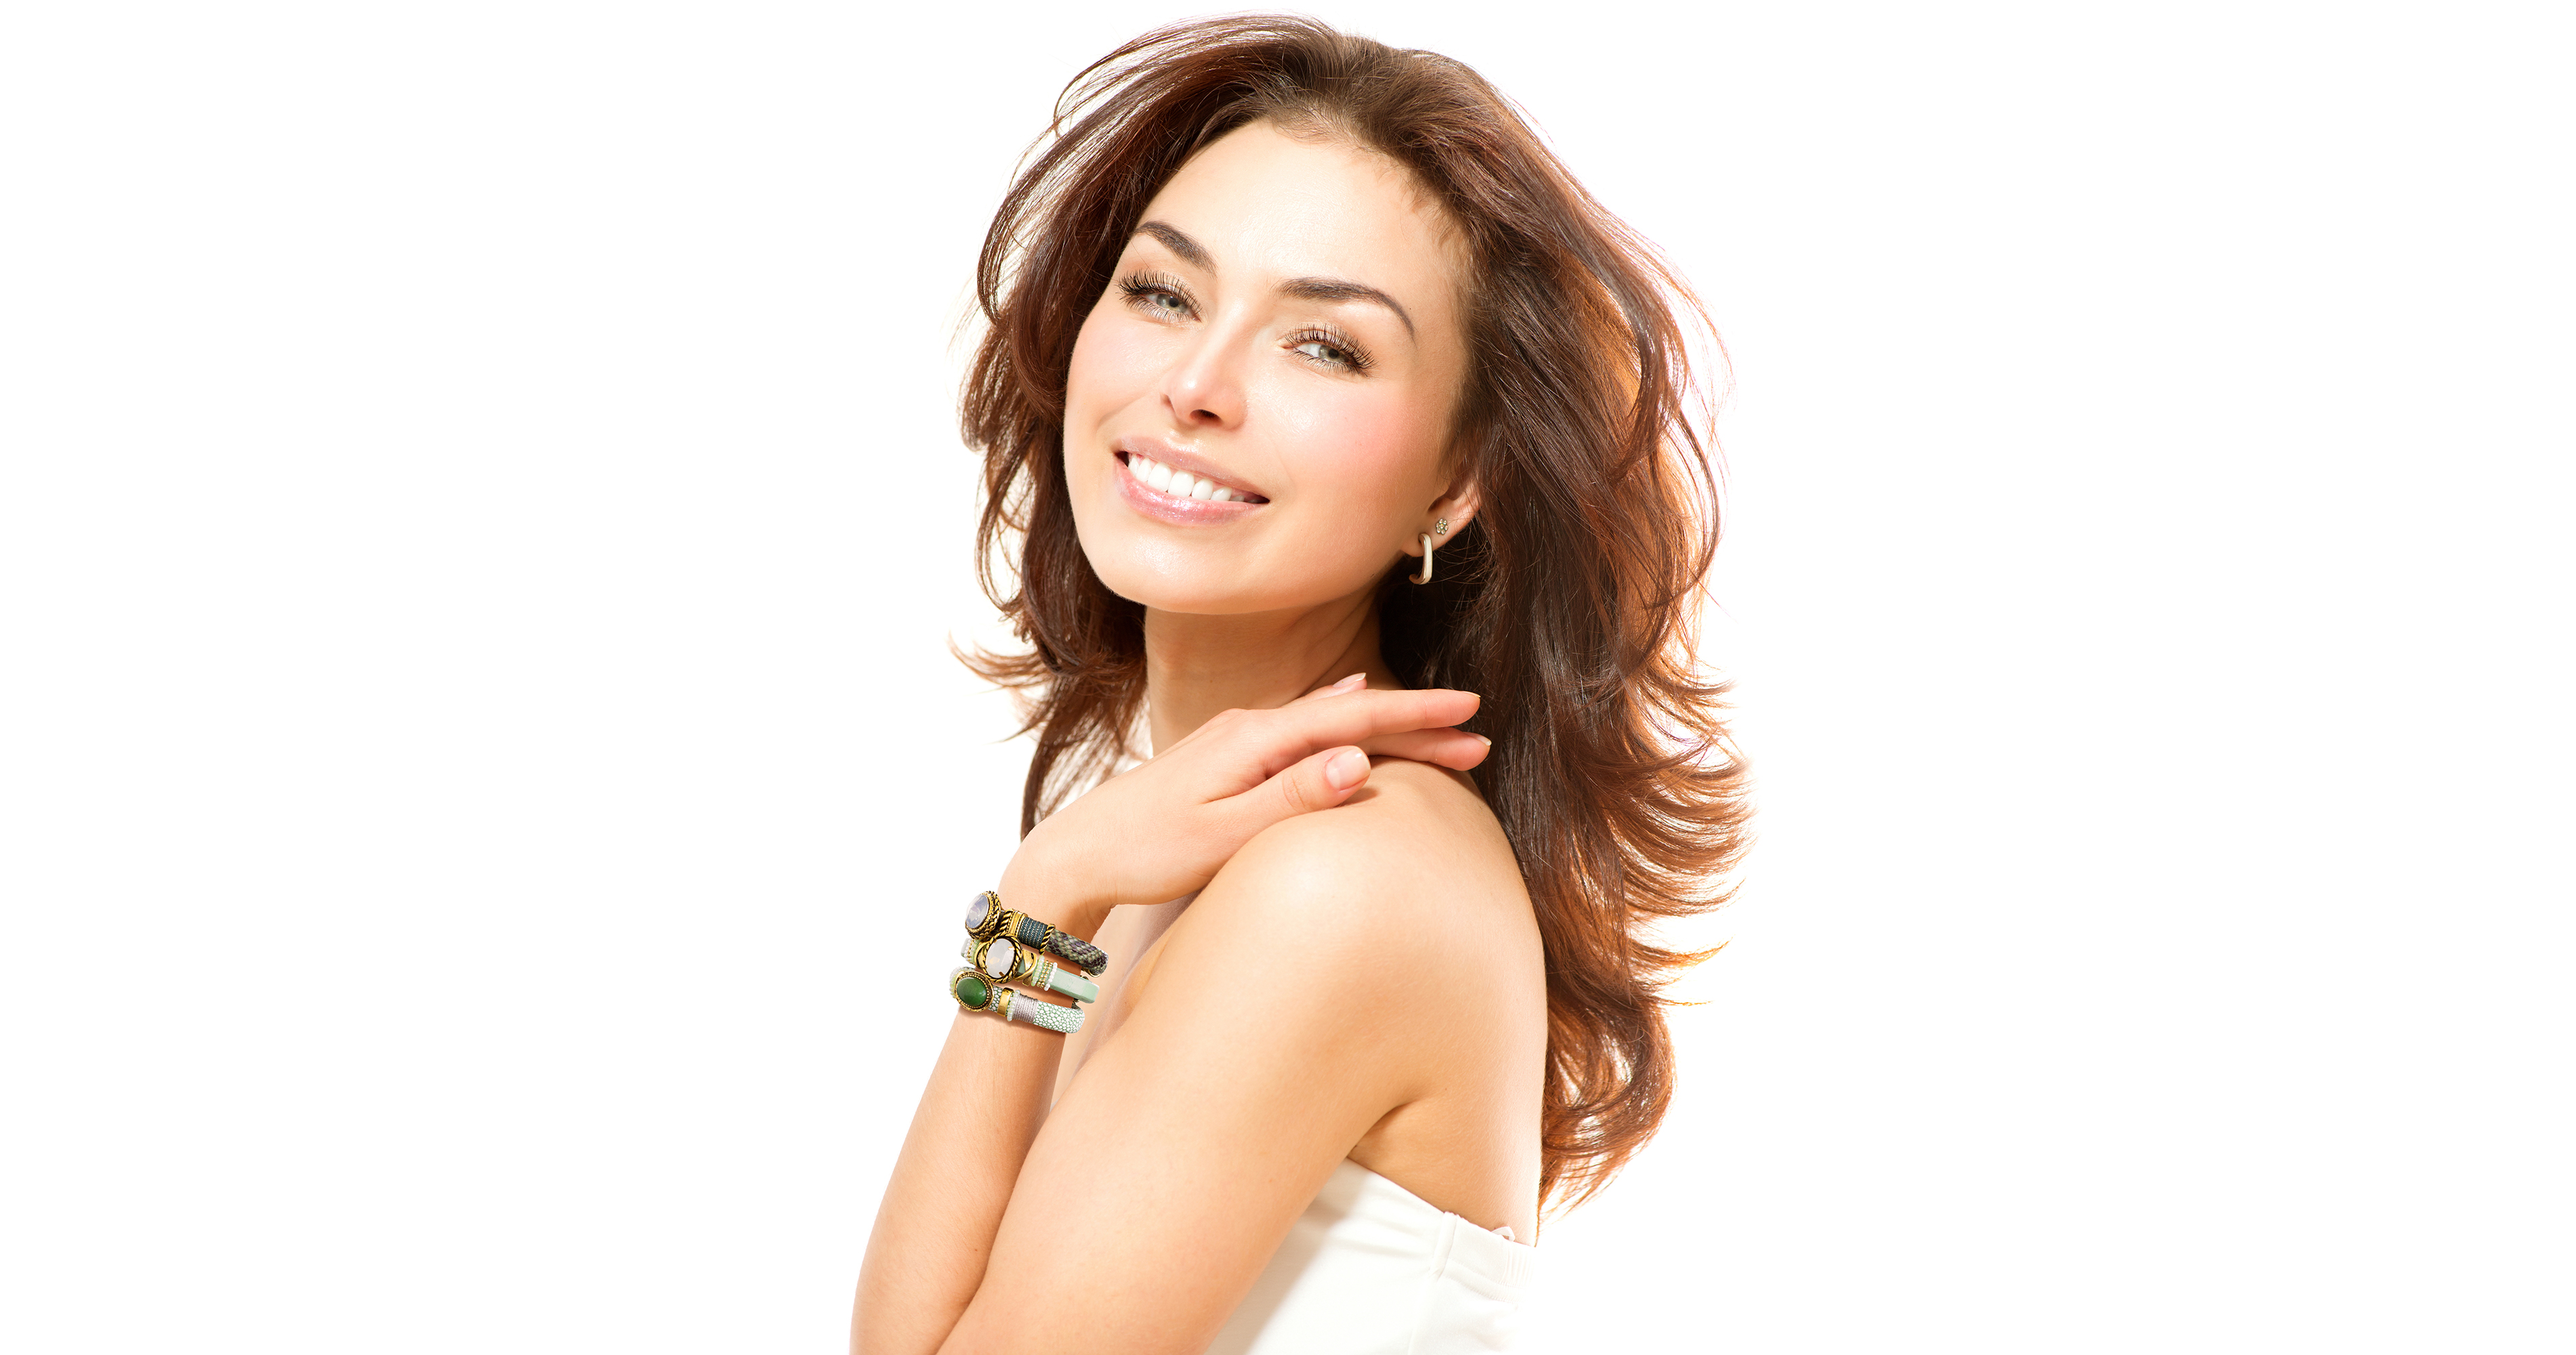
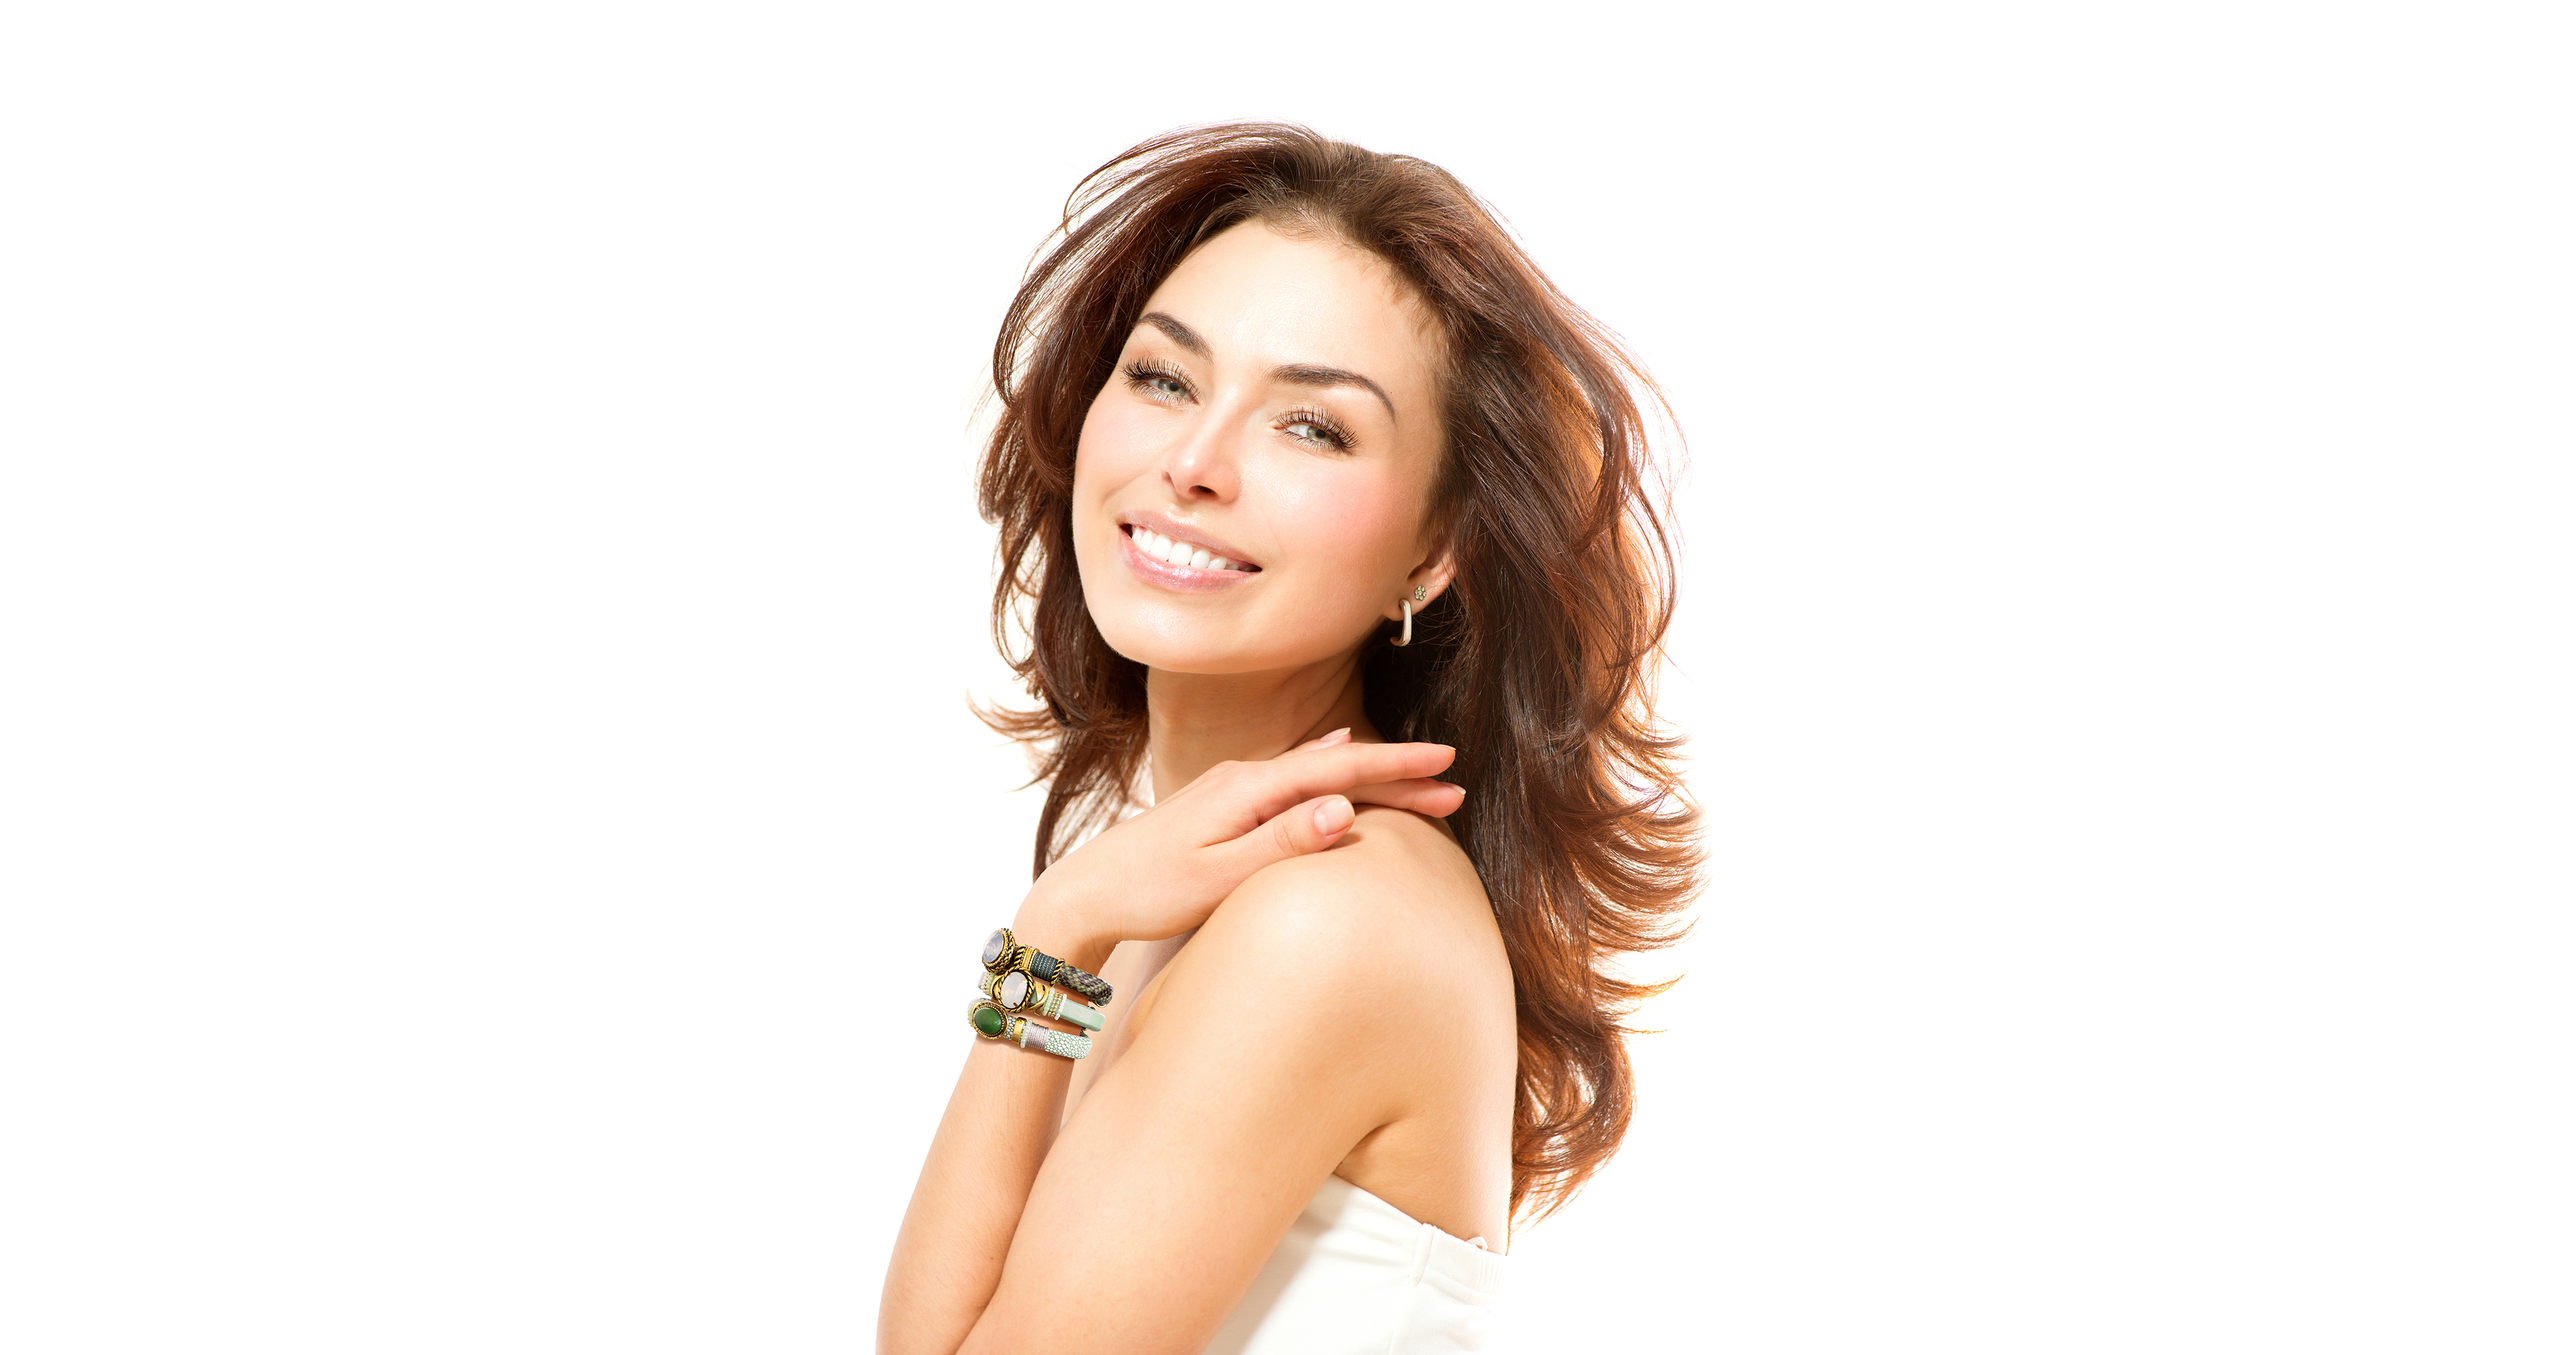
end of day stuff

Changed region(s): [[0.3105, 0.0, 0.6832, 1.0], [0.4658, 0.961, 0.4968, 1.0]]

diff --git a/index.html b/index.html
@@ -86,8 +86,8 @@
 
 							<!-- LAYER NR. 1 -->
 							<div class="tp-caption tp-resizeme"
-								data-x="['center','center','center','center']" data-hoffset="['-458','-395','-257','-410']"
-								data-y="['middle','middle','bottom','middle']" data-voffset="['90','55','123','50']"
+								data-x="['center','center','center','center']" data-hoffset="['-458','-397','-257','-410']"
+								data-y="['middle','middle','bottom','middle']" data-voffset="['90','235','123','50']"
 								data-width="none"
 								data-height="none"
 								data-whitespace="nowrap"
@@ -106,7 +106,7 @@
 							<!-- LAYER NR. 2 -->
 							<div class="tp-caption tp-resizeme"
 								data-x="['center','center','center','center']" data-hoffset="['-410','-349','-209','-209']"
-								data-y="['middle','middle','bottom','middle']" data-voffset="['190','150','-40','150']"
+								data-y="['middle','middle','bottom','middle']" data-voffset="['190','330','-40','150']"
 								data-fontsize="['17','17','17','17']"
 								data-lineheight="['22','22','22','22']"
 								data-width="219"
@@ -132,7 +132,7 @@
 							<!-- LAYER NR. 3 -->
 							<div class="tp-caption   tp-resizeme"
 								data-x="['center','center','center','center']" data-hoffset="['-413','-353','-211','-330']"
-								data-y="['middle','middle','bottom','middle']" data-voffset="['185','142','40','250']"
+								data-y="['middle','middle','bottom','bottom']" data-voffset="['185','321','40','250']"
 								data-width="none"
 								data-height="none"
 								data-whitespace="nowrap"
@@ -158,8 +158,8 @@
 
 							<!-- LAYER NR. 1 -->
 							<div class="tp-caption tp-resizeme"
-								data-x="['center','center','center','center']" data-hoffset="['-402','0','0','0']"
-								data-y="['middle','middle','middle','middle']" data-voffset="['90','0','0','0']"
+								data-x="['center','left','left','left']" data-hoffset="['-402','60','60','0']"
+								data-y="['middle','bottom','bottom','bottom']" data-voffset="['90','30','30','30']"
 								data-width="none"
 								data-height="none"
 								data-whitespace="nowrap"
@@ -172,15 +172,15 @@
 								data-responsive_offset="on"
 								style="z-index: 5;"> <img src="one-page/images/rglblogo.png">
 							</div>
-70
+
 							<!-- LAYER NR. 2 -->
 							<div class="tp-caption  tp-resizeme"
-								data-x="['center','center','center','center']" data-hoffset="['-345','-349','-309','-209']"
-								data-y="['middle','middle','middle','middle']" data-voffset="['200','150','150','150']"
+								data-x="['center','left','left','left']" data-hoffset="['-395','70','145','145']"
+								data-y="['middle','bottom','bottom','bottom']" data-voffset="['165','-55','65','55']"
 								data-fontsize="['20','17','17','17']"
-								data-lineheight="['28','30','30','30']"
-								data-width="219"
-								data-height="161"
+								data-lineheight="['22','22','22','22']"
+								data-width="119"
+								data-height="91"
 								data-whitespace="normal"
 								data-transform_idle="o:1;"
 								data-transform_in="x:[-100%];z:0;rX:0deg;rY:0;rZ:0;sX:1;sY:1;skX:0;skY:0;s:1500;e:Power3.easeInOut;"
@@ -190,10 +190,10 @@
 								data-start="500"
 								data-splitin="none"
 								data-splitout="none"
-								data-basealign="slide"
+
 								data-responsive_offset="on"
 
-								style="z-index: 6; min-width: 219px; max-width: 219px; max-width: 161px; max-width: 161px; white-space: normal; font-family: Bodoni-Sans;">Magentic Focal<br/>
+								style="z-index: 6; min-width: 219px; max-width: 219px; min-height: 161px; max-height: 161px; white-space: normal; font-family: Bodoni-Sans;">Magentic Focal<br/>
 								Bracelet 3<br/>
 								$59.99<br/>
 							</div>
@@ -209,7 +209,7 @@
 							<!-- LAYER NR. 1 -->
 							<div class="tp-caption tp-resizeme"
 								data-x="['left','left','left','left']" data-hoffset="['90','0','0','0']"
-								data-y="['middle','middle','middle','middle']" data-voffset="['90','0','0','0']"
+								data-y="['middle','bottom','bottom','bottom']" data-voffset="['90','90','00','00']"
 								data-width="none"
 								data-height="none"
 								data-whitespace="nowrap"
@@ -219,18 +219,21 @@
 								data-transform_out="opacity:0;s:1000;s:1000;"
 								data-mask_in="x:0px;y:0px;s:inherit;e:inherit;"
 								data-start="500"
+								data-splitin="none"
+								data-splitout="none"
+
 								data-responsive_offset="on"
 								style="z-index: 9;"> <img src="one-page/images/encharminglogo.png">
 							</div>
 
 							<!-- LAYER NR. 2 -->
 							<div class="tp-caption tp-resizeme"
-								data-x="['left','left','center','center']" data-hoffset="['430','90','90','90']"
-								data-y="['middle','middle','middle','middle']" data-voffset="['195','50','50','50']"
+								data-x="['left','left','left','left']" data-hoffset="['95','5','90','90']"
+								data-y="['middle','bottom','bottom','bottom']" data-voffset="['137','45','0','0']"
 								data-fontsize="['20','17','17','17']"
-								data-lineheight="['28','30','30','30']"
-								data-width="219"
-								data-height="161"
+								data-lineheight="['28','22','22','22']"
+								data-width="140"
+								data-height="none"
 								data-whitespace="normal"
 								data-transform_idle="o:1;"
 								data-transform_in="x:[-100%];z:0;rX:0deg;rY:0;rZ:0;sX:1;sY:1;skX:0;skY:0;s:1500;e:Power3.easeInOut;"
@@ -240,7 +243,7 @@
 								data-start="500"
 								data-splitin="none"
 								data-splitout="none"
-								data-basealign="slide"
+
 								data-responsive_offset="on"
 
 								style="z-index: 10; min-width: 219px; max-width: 219px; max-width: 161px; max-width: 161px; white-space: normal; font-family: Bodoni-Sans">Charm Necklace<br/>
@@ -256,8 +259,8 @@
 
 							<!-- LAYER NR. 3 -->
 							<div class="tp-caption tp-resizeme"
-								data-x="['center','center','center','center']" data-hoffset="['-455','0','0','0']"
-								data-y="['middle','middle','middle','middle']" data-voffset="['85','0','0','0']"
+								data-x="['center','left','left','left']" data-hoffset="['-455','50','0','0']"
+								data-y="['middle','bottom','bottom','bottom']" data-voffset="['85','30','0','0']"
 								data-width="none"
 								data-height="none"
 								data-whitespace="nowrap"
@@ -267,18 +270,20 @@
 								data-transform_out="opacity:0;s:1000;s:1000;"
 								data-mask_in="x:0px;y:0px;s:inherit;e:inherit;"
 								data-start="500"
+								data-splitin="none"
+								data-splitout="none"
 								data-responsive_offset="on"
 								style="z-index: 12;"> <img src="one-page/images/identifylogo.png">
 							</div>
 
 							<!-- LAYER NR. 4 -->
 							<div class="tp-caption tp-resizeme"
-								data-x="['center','center','center','center']" data-hoffset="['-390','-349','-309','-209']"
-								data-y="['middle','middle','middle','middle']" data-voffset="['180','150','150','150']"
+								data-x="['center','left','left','left']" data-hoffset="['-425','82','82','82']"
+								data-y="['middle','bottom','bottom','bottom']" data-voffset="['140','155','145','145']"
 								data-fontsize="['20','17','17','17']"
 								data-lineheight="['25','30','30','30']"
-								data-width="219"
-								data-height="161"
+								data-width="149"
+								data-height="71"
 								data-whitespace="normal"
 								data-transform_idle="o:1;"
 								data-transform_in="x:[-100%];z:0;rX:0deg;rY:0;rZ:0;sX:1;sY:1;skX:0;skY:0;s:1500;e:Power3.easeInOut;"
@@ -321,10 +326,11 @@
 
 						<!-- LAYER NR. 1 -->
 						<div class="tp-caption tp-resizeme looks"
-							data-x="['right','right','right','right']" data-hoffset="['50','70','0','0']"
-							data-y="['middle','middle','middle','middle']" data-voffset="['45','180','150','150']"
+							data-x="['right','right','right','right']" data-hoffset="['50','50','0','0']"
+							data-y="['middle','middle','middle','middle']" data-voffset="['45','290','150','150']"
 							data-fontsize="['40','35','30','25']"
 							data-lineheight="['32','30','30','30']"
+							data-visibility="['on','on','off','off']"
 							data-width="319"
 							data-height="191"
 							data-whitespace="normal"
@@ -346,14 +352,16 @@
 
 						<!-- LAYER NR. 1 -->
 						<div class="tp-caption tp-resizeme looks"
-							data-x="['right','right','right','right']" data-hoffset="['120','70','-270','0']"
-							data-y="['middle','middle','middle','middle']" data-voffset="['40','180','40','40']"
+							data-x="['right','right','right','right']" data-hoffset="['120','50','-270','0']"
+							data-y="['middle','middle','middle','middle']" data-voffset="['40','290','40','40']"
 							data-fontsize="['70','60','47','47']"
 							data-lineheight="['55','45','30','30']"
+							data-visibility="['on','on','off','off']"
 							data-width="249"
 							data-height="111"
 							data-whitespace="normal"
 							data-transform_idle="o:1;"
+							data-visibility="['on','on','off','off']"
 
 							data-transform_out="x:[-100%];s:1000;e:Power3.easeInOut;s:1000;e:Power3.easeInOut;"
 							data-mask_in="x:0px;y:0px;s:inherit;e:inherit;"

diff --git a/css/custom.css b/css/custom.css
@@ -46,7 +46,7 @@
 	}
 }
 
-@media (max-width: 1239px) {
+@media (max-width: 1224px) {
 	.looks {
 		text-align: right;
 	}
